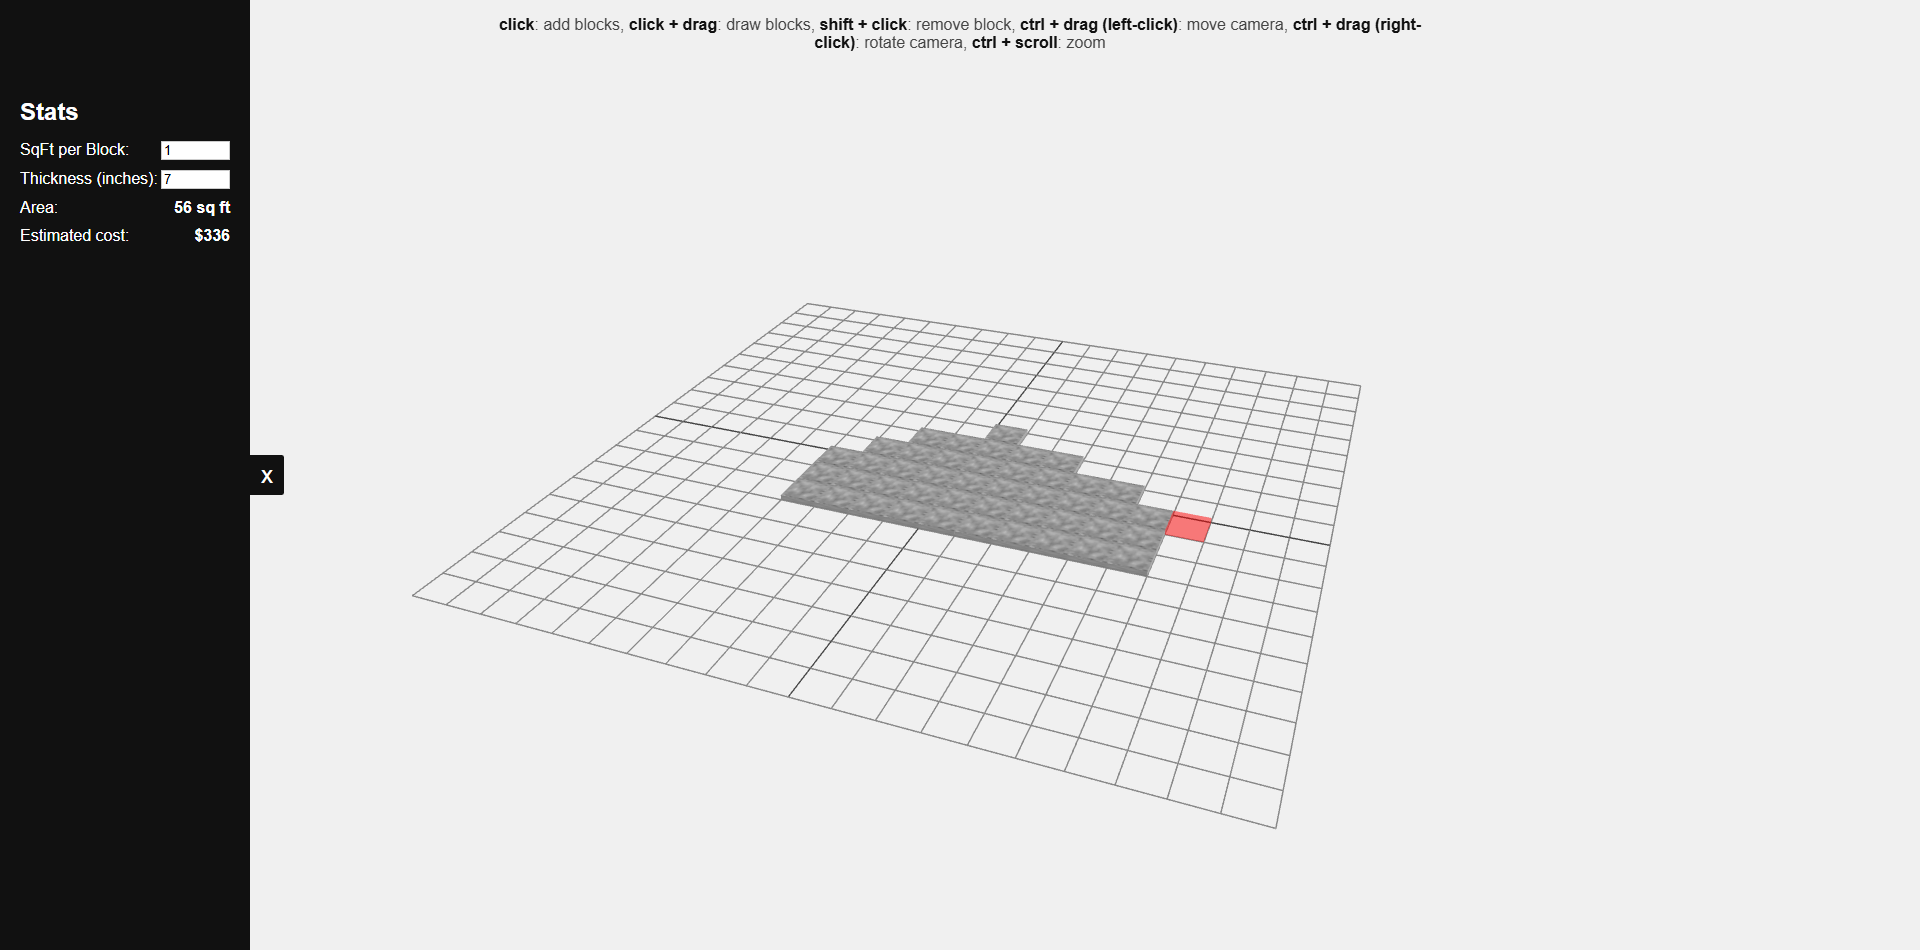
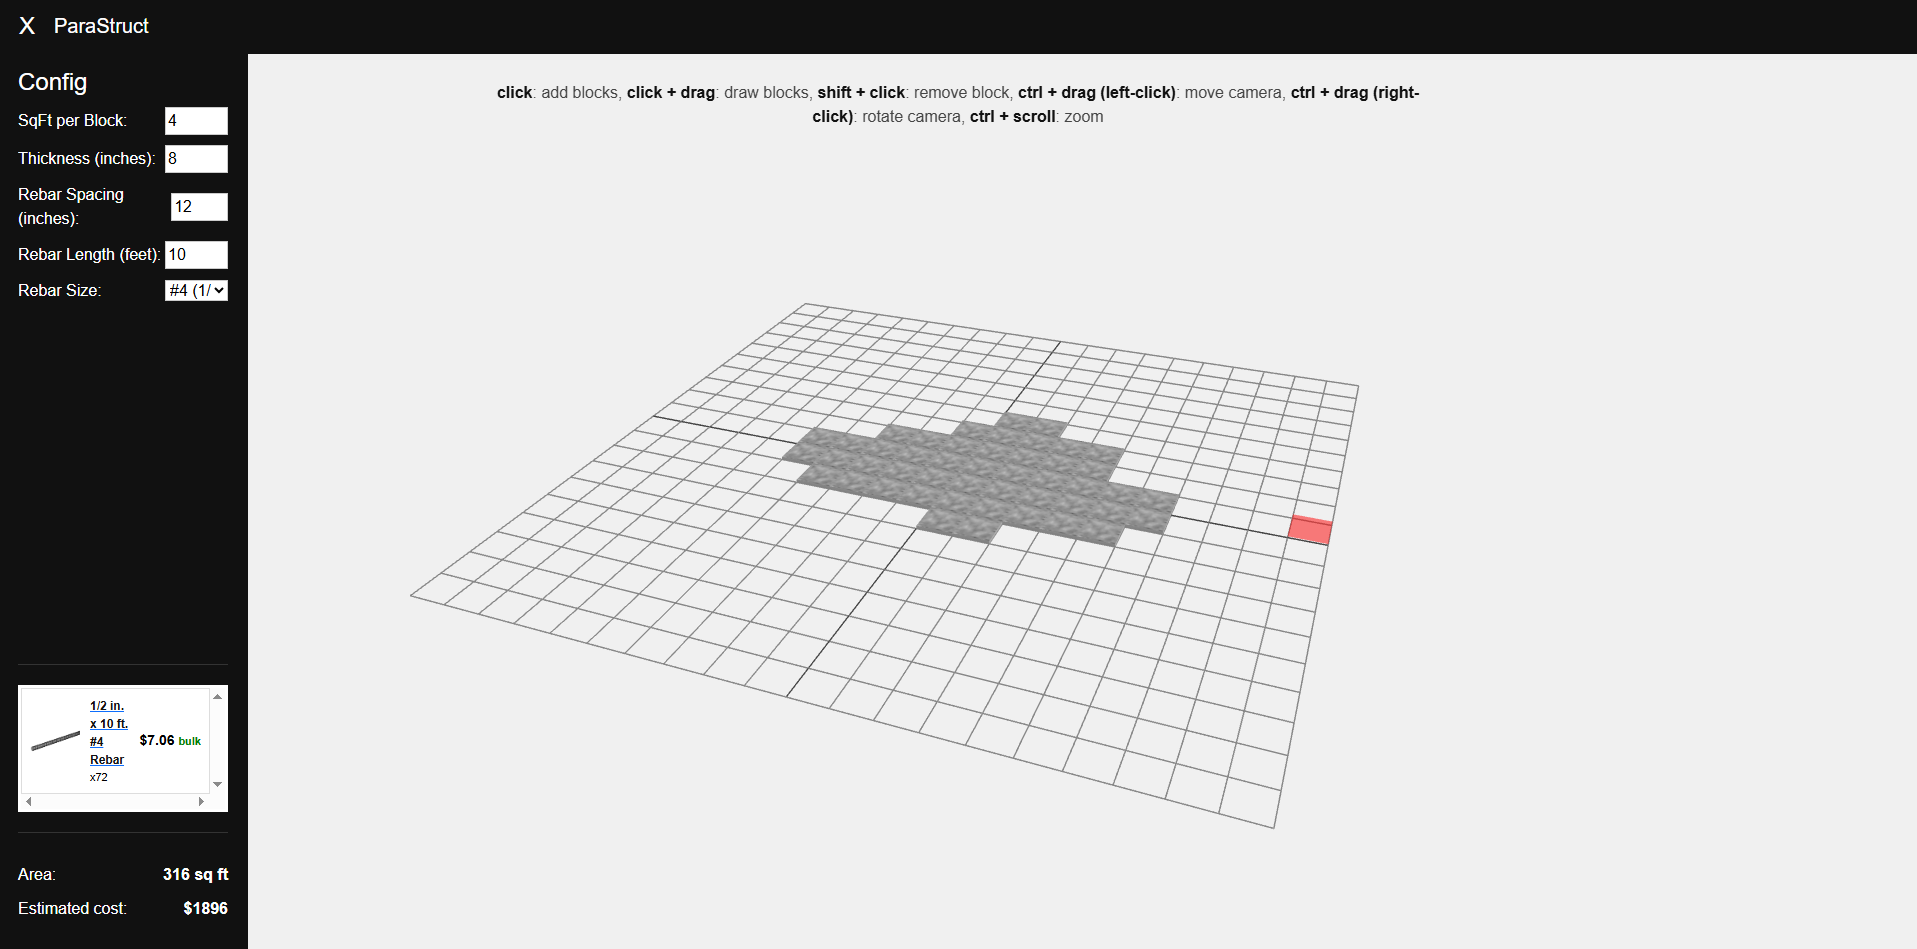
A bunch of materials filters

diff --git a/src/views/HomePage.vue b/src/views/HomePage.vue
@@ -45,22 +45,62 @@
             class="input-field"
           >
         </div>
+        <div class="stat-item">
+          <span class="stat-label">Rebar Spacing (inches):</span>
+          <input
+            v-model.number="rebarSpacing"
+            type="number"
+            min="6"
+            max="24"
+            step="1"
+            placeholder="Spacing (e.g., 12)"
+            class="input-field"
+          >
+        </div>
+        <div class="stat-item">
+          <span class="stat-label">Rebar Length (feet):</span>
+          <input
+            v-model.number="poleLength"
+            type="number"
+            min="5"
+            max="40"
+            step="1"
+            placeholder="e.g., 10"
+            class="input-field"
+          >
+        </div>
+
+        <div class="stat-item">
+          <span class="stat-label">Rebar Size:</span>
+          <select v-model="rebarSize" class="input-field">
+            <option value="#3">#3 (3/8")</option>
+            <option value="#4">#4 (1/2")</option>
+            <option value="#5">#5 (5/8")</option>
+            <option value="#6">#6 (3/4")</option>
+          </select>
+        </div>
       </div>
 
       <div class="materials-container">
         <div class="materials-wrapper">
           <div
             class="item"
-            v-for="(material, index) in materials"
+            v-for="(material, index) in filteredMaterials"
             :key="index"
           >
-            <img src="material.imageUrl" alt="Product Image" style="width: 100px; height: auto;">
-            <div><strong>{{ material.title }}</strong></div>
-            <div>Price: {{ material.price }}</div>
-            <div v-if="material.bulkPricing">
-              Bulk ({{ material.bulkPricing.quantity }}+): {{ material.bulkPricing.price }}
+            <img
+              class="item-img"
+              src="../assets/rebar.webp"
+              alt="Product Image"
+            />
+            <a class="item-title" :href="material.link"><strong>{{ material.title }}</strong></a>
+            <div class="item-price">
+              {{ material.usesBulk ? material.bulkPricing.price : material.price }}
+              <span v-if="material.usesBulk" style="color: green; font-size: 11px;">bulk</span>
             </div>
-            <a :href="material.link" target="_blank">View Product</a>
+            <div class="item-qty">
+              x{{ rebarCalculation.poles }}<br />
+            </div>
           </div>
         </div>
       </div>
@@ -99,6 +139,15 @@ const isOpen = ref(true)
 const blockCount = ref(0)
 const blockSqFt = ref(4)
 const foundationThickness = ref(8) // default 8 inches
+const rebarSpacing = ref(12);
+const poleLength = ref(10);
+const rebarSize = ref('#4');
+const sizeMap = {
+  '#3': ['3/8', '0.375'],
+  '#4': ['1/2', '0.5'],
+  '#5': ['5/8', '0.625'],
+  '#6': ['3/4', '0.75']
+};
 
 const sidebarWidth = computed(() => isOpen.value ? '250px' : '0px')
 const openBtnPosition = computed(() => isOpen.value ? '250px' : '0px')
@@ -130,4 +179,77 @@ const incrementBlocks = () => {
 const decrementBlocks = () => {
   blockCount.value--
 }
+
+const filteredMaterials = computed(() => {
+  const selectedSize = rebarSize.value;
+  const sizeAliases = sizeMap[selectedSize] || [];
+  const polesNeeded = rebarCalculation.value.poles;
+
+  const matches = materials.value
+    .filter((material) => {
+      const lengthMatch = material.title.match(/(\d+)\s*ft/);
+      if (!lengthMatch) return false;
+      const materialLength = parseInt(lengthMatch[1]);
+      if (materialLength !== poleLength.value) return false;
+
+      const titleLower = material.title.toLowerCase();
+      const matchesSize =
+        titleLower.includes(selectedSize.toLowerCase()) ||
+        sizeAliases.some(alias => titleLower.includes(alias));
+
+      return matchesSize;
+    })
+    .map((material) => {
+      const regularPrice = parseFloat(
+        material.price?.replace(/[^0-9.]/g, '') || 'Infinity'
+      );
+
+      const hasBulk = material.bulkPricing && material.bulkPricing.quantity && material.bulkPricing.price;
+      const bulkQty = hasBulk ? parseInt(material.bulkPricing.quantity) : Infinity;
+      const bulkPrice = hasBulk ? parseFloat(material.bulkPricing.price.replace(/[^0-9.]/g, '')) : Infinity;
+
+      const effectivePrice = polesNeeded >= bulkQty ? bulkPrice : regularPrice;
+
+      return {
+        ...material,
+        priceNumber: regularPrice,
+        bulkPrice,
+        effectivePrice,
+        usesBulk: polesNeeded >= bulkQty
+      };
+    })
+    .filter(m => isFinite(m.effectivePrice))
+    .sort((a, b) => a.effectivePrice - b.effectivePrice);
+
+  return matches.length ? [matches[0]] : [];
+});
+
+const rebarCalculation = computed(() => {
+  const spacingFeet = rebarSpacing.value / 12;
+  const lengthPerPole = poleLength.value;
+  const area = foundationArea.value;
+
+  if (area <= 0 || rebarSpacing.value < 1 || lengthPerPole <= 0) {
+    return { totalLength: 0, poles: 0, barCount: 0 };
+  }
+
+  const sideLength = Math.sqrt(area); // assume square slab
+  const barCountPerDirection = Math.ceil(sideLength / spacingFeet) + 1;
+  const totalBars = barCountPerDirection * 2;
+
+  const totalRebarLength = totalBars * sideLength;
+
+  const overlapPerJoint = 1; // ft
+  const overlapCount = totalBars;
+  const adjustedLength = totalRebarLength + overlapCount * overlapPerJoint;
+
+  const polesNeeded = Math.ceil(adjustedLength / lengthPerPole);
+
+  return {
+    totalLength: Math.round(adjustedLength),
+    poles: polesNeeded,
+    barCount: totalBars
+  };
+});
+
 </script>

diff --git a/src/assets/styles/home.css b/src/assets/styles/home.css
@@ -71,7 +71,41 @@
 .item {
   border: 1px solid #ddd;
   padding: 8px;
-  text-align: center;
+  display: grid;
+  grid-template-columns: 50px 1fr auto;
+  grid-template-rows: auto auto;
+  column-gap: 10px;
+  align-items: center;
+}
+
+.item-img {
+  grid-row: 1 / span 2;
+  grid-column: 1;
+  width: 50px;
+  height: auto;
+}
+
+.item-title {
+  grid-column: 2;
+  grid-row: 1;
+  font-size: 12px;
+  text-align: left;
+}
+
+.item-qty {
+  grid-column: 2;
+  grid-row: 2;
+  text-align: left;
+  font-size: 11px;
+}
+
+.item-price {
+  grid-column: 3;
+  grid-row: 1 / span 2;
+  font-weight: bold;
+  font-size: 14px;
+  text-align: right;
+  white-space: nowrap;
 }
 
 .stats-container {
@@ -94,6 +128,7 @@
 
 .stat-label {
   font-weight: normal;
+  text-align: left;
 }
 
 .stat-value {
